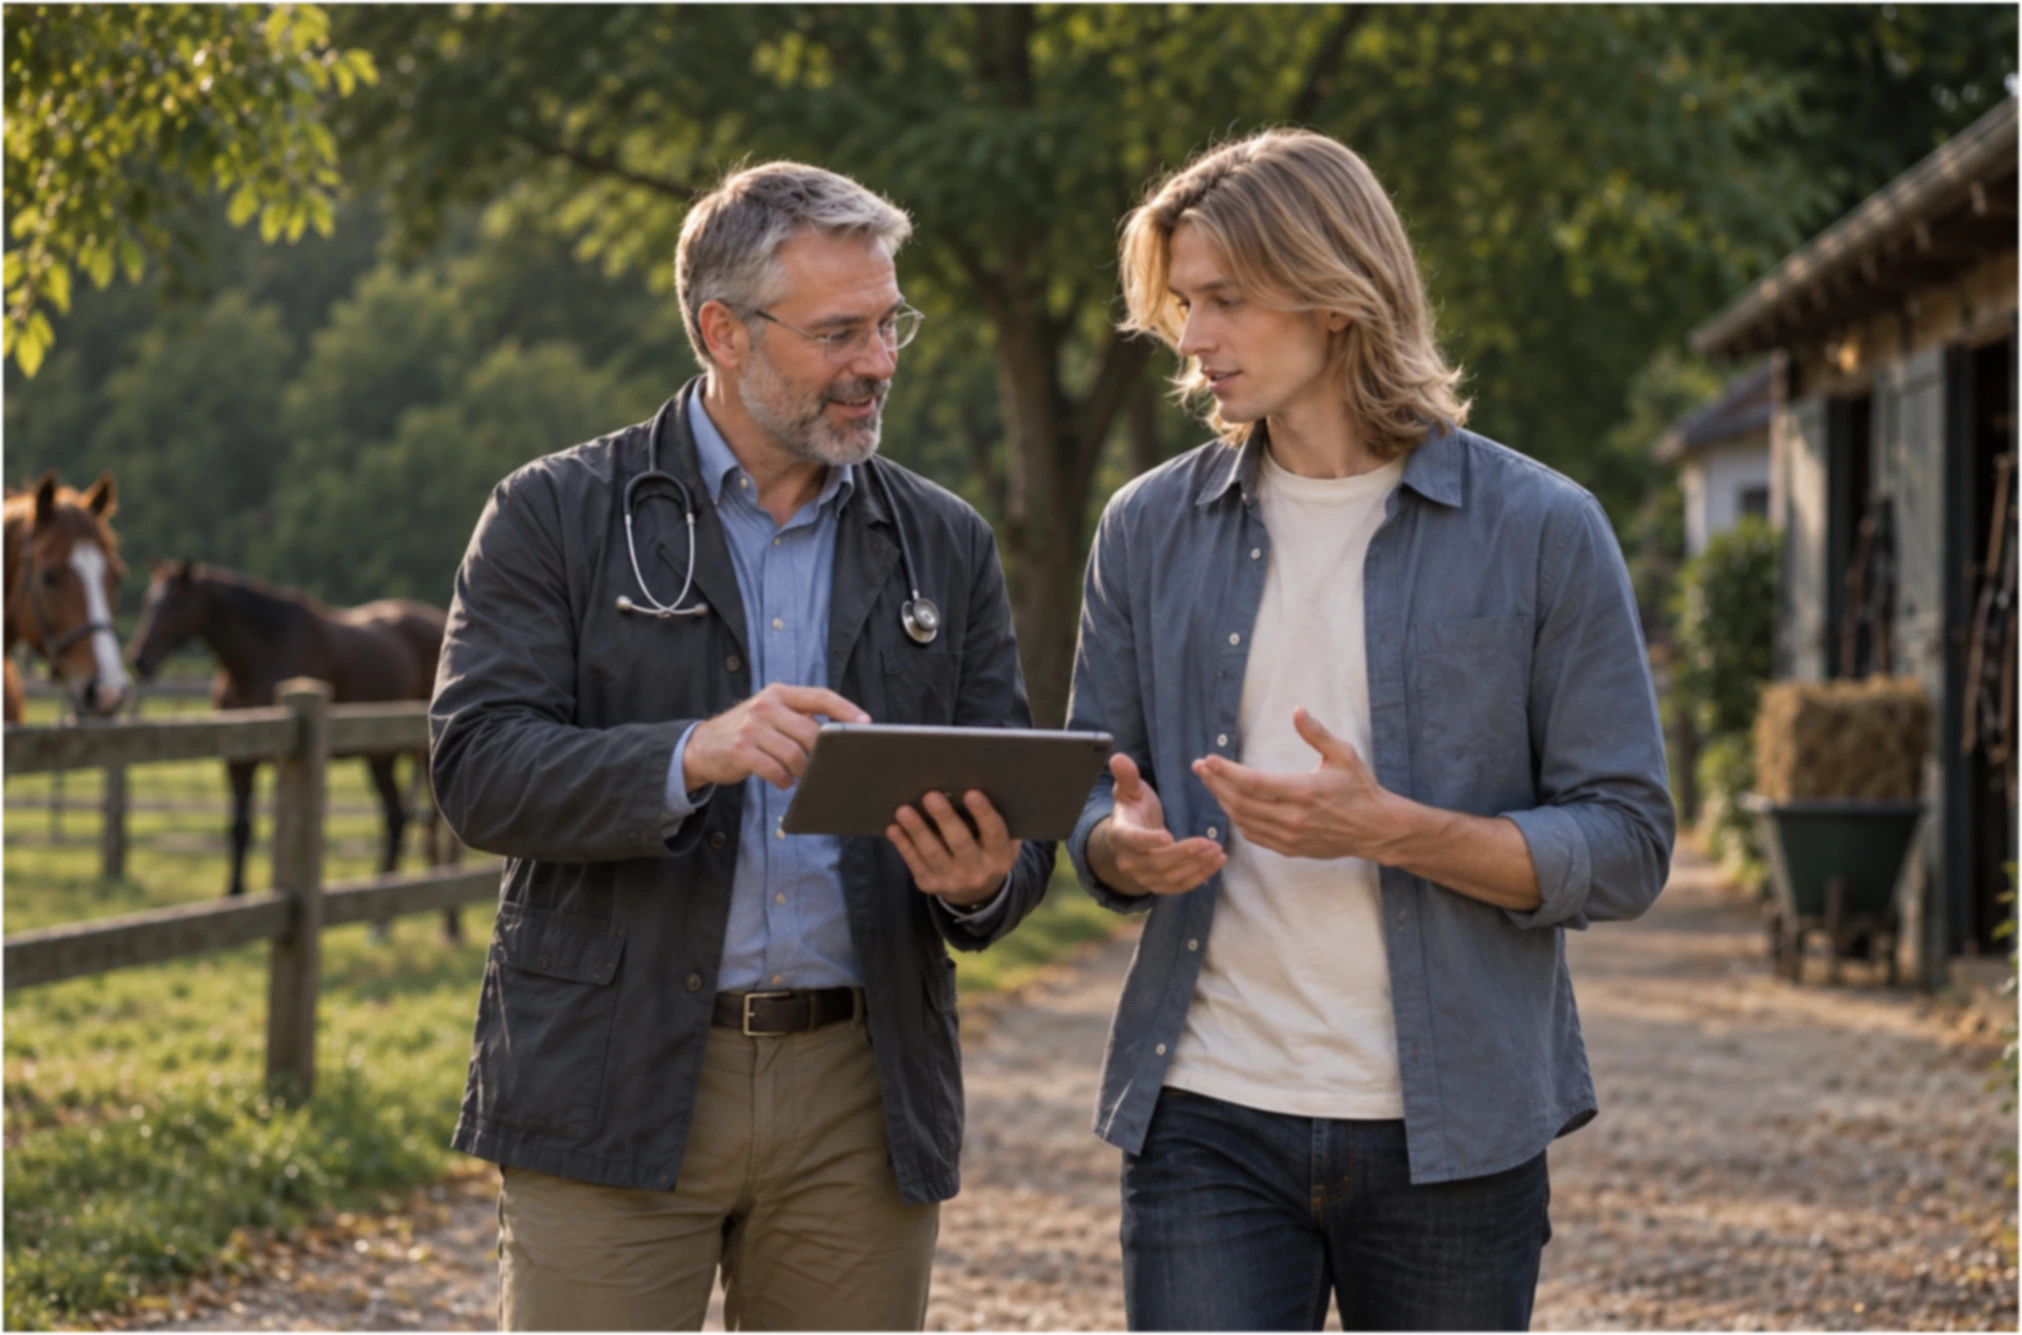
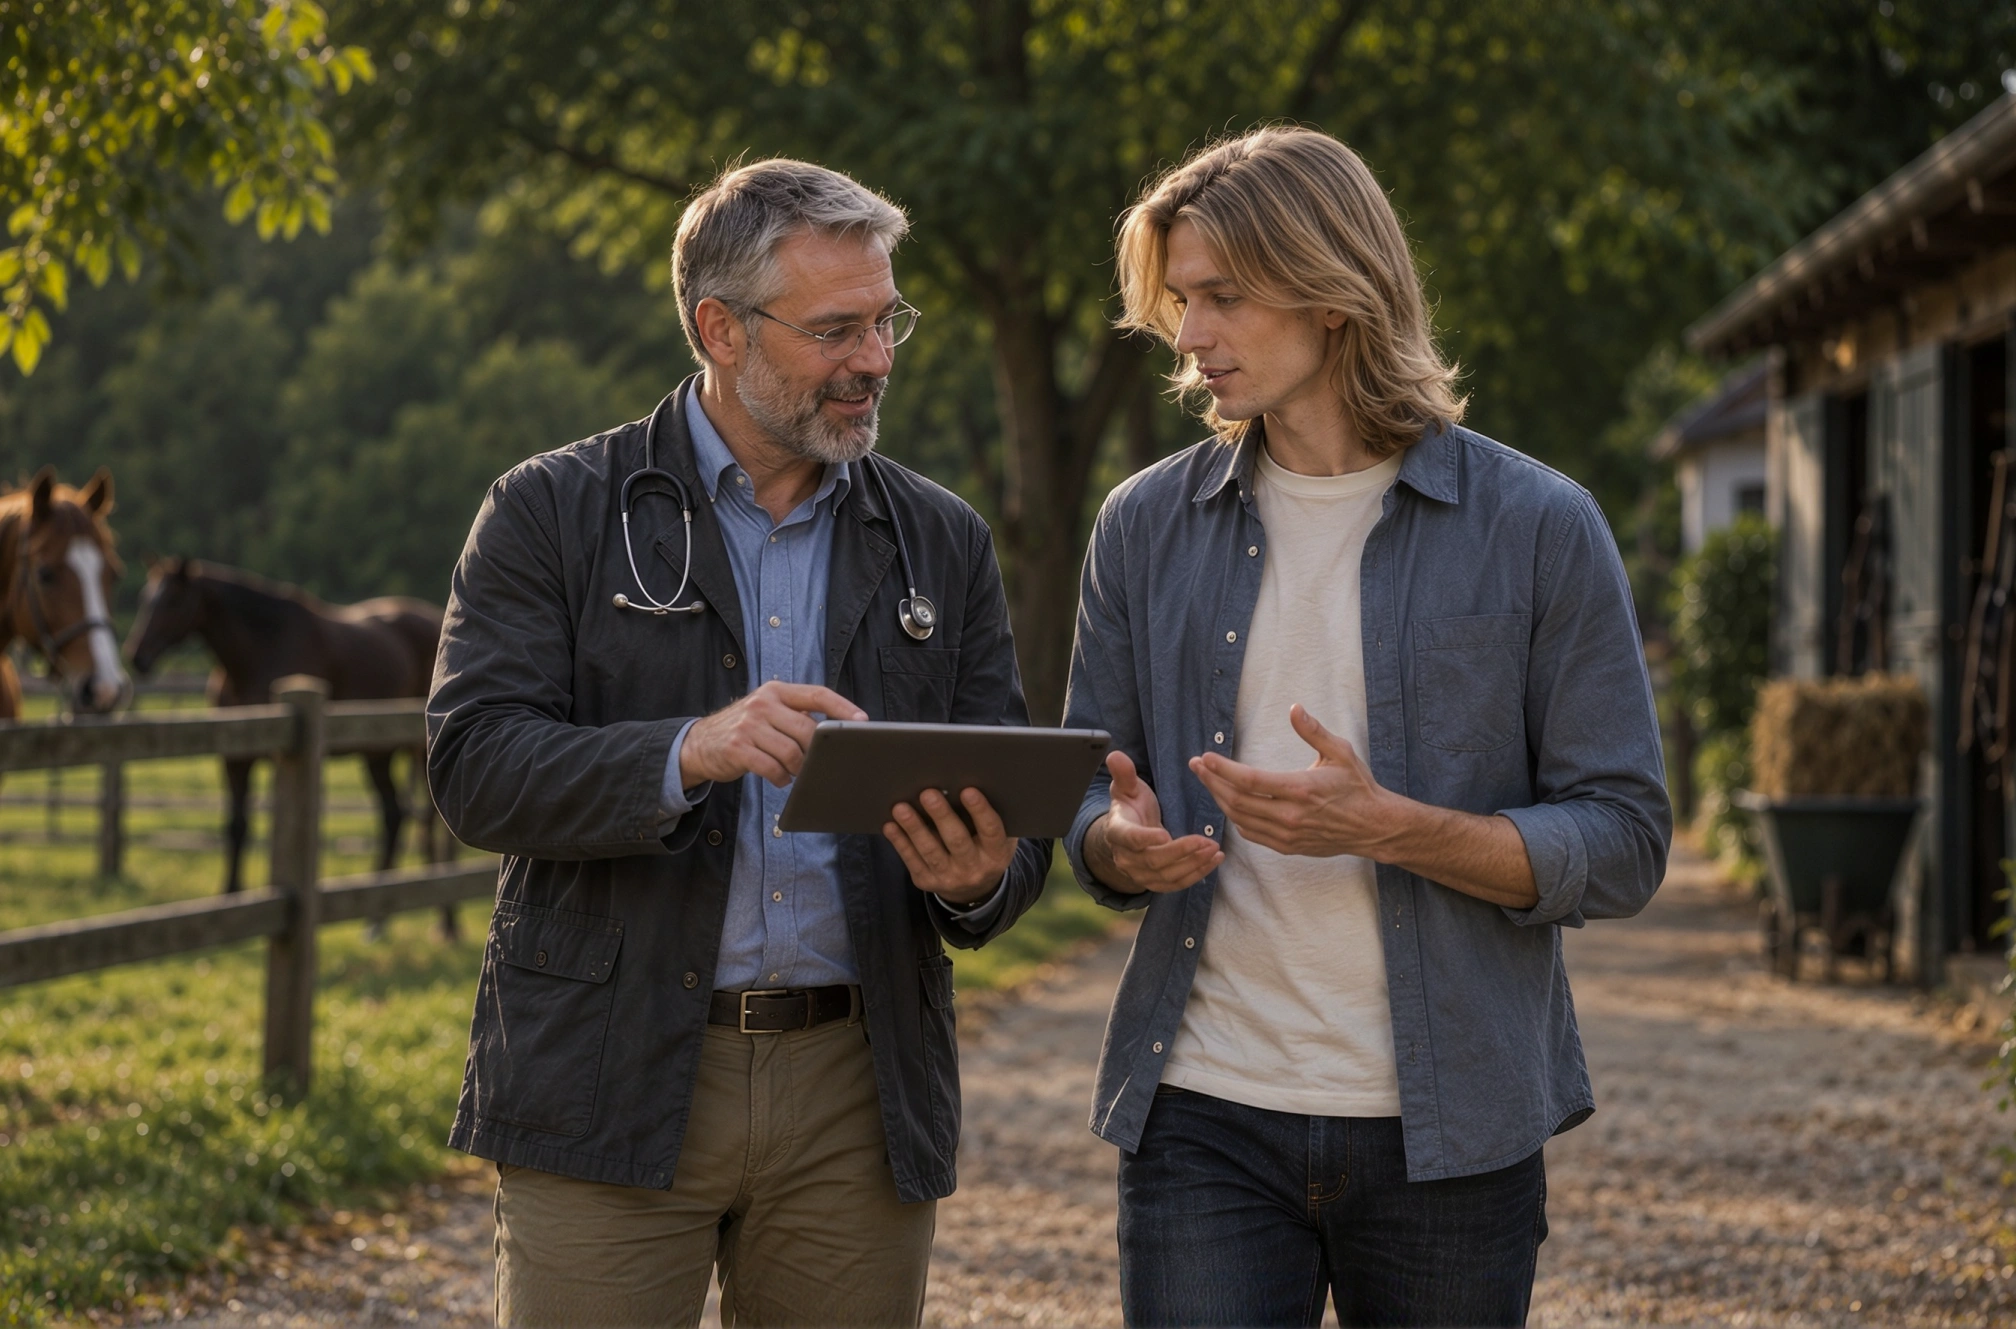
Refine section animations and content styling

diff --git a/src/sections/Contact.tsx b/src/sections/Contact.tsx
@@ -34,8 +34,8 @@ export function Contact() {
     setStatus('Your details are ready, but this form is not connected yet. Nothing has been sent. Please email wehelp@vet.vc to discuss your project.')
   }
   return <section id="contact" className={styles.contact} aria-labelledby="contact-heading"><div className={`container ${styles.grid}`}>
-    <div className={styles.copy} data-reveal-group><h2 id="contact-heading" data-reveal>Your challenge.<br />Our next step.</h2><p className={styles.intro} data-reveal>Tell us what you would like to launch, improve or simplify. You don’t need to prepare a technical brief.</p><h3 data-reveal>What happens after you get in touch?</h3><p data-reveal>You will hear directly from the studio founder. We’ll discuss your project in English or arrange translation support in advance. Then we’ll recommend the most practical first step and agree on the scope and cost before any work begins.</p></div>
-    <form ref={formRef} className={styles.form} noValidate onSubmit={submit} aria-describedby="form-note" data-reveal-group>
+    <div className={styles.copy} data-reveal-group><h2 id="contact-heading" data-reveal>Your challenge.<br />Our next step.</h2><p className={styles.intro} data-reveal>Tell us what you would like to launch, improve or simplify. You don’t need to prepare a technical brief.</p><div className={styles.followUp}><h3 data-reveal>What happens after you get in touch?</h3><p data-reveal>You will hear directly from the studio founder. We’ll discuss your project in English or arrange translation support in advance. Then we’ll recommend the most practical first step and agree on the scope and cost before any work begins.</p></div></div>
+    <form ref={formRef} className={styles.form} noValidate onSubmit={submit} data-reveal-group>
       <div className={styles.fields}>{fields.map(field => <div key={field.name} className={field.name === 'email' || field.name === 'message' ? styles.full : undefined} data-reveal>
         <label htmlFor={field.name}>{field.label}</label>
         {field.name === 'message' ? <textarea id={field.name} name={field.name} rows={5} required maxLength={5000} placeholder={field.placeholder} aria-invalid={!!errors[field.name]} aria-describedby={errors[field.name] ? `${field.name}-error` : undefined} onChange={() => setStatus('')} />
@@ -44,7 +44,6 @@ export function Contact() {
       </div>)}</div>
       <button type="submit" className="button" data-reveal>Discuss your project</button>
       <div className={styles.legal} data-reveal>By clicking, you agree to our <LegalNotice label="Terms & Conditions" /> and <LegalNotice label="Privacy Policy" />.</div>
-      <p id="form-note" className={styles.note} data-reveal>Form not connected yet. You can contact us at <a href="mailto:wehelp@vet.vc">wehelp@vet.vc</a>.</p>
       <p role="status" aria-live="polite" className={styles.status}>{status}</p>
     </form>
   </div></section>

diff --git a/src/sections/HowWeWork.tsx b/src/sections/HowWeWork.tsx
@@ -18,30 +18,35 @@ export function HowWeWork() {
 
     const steps = motion.utils.toArray<HTMLElement>('[data-process-step]', layers)
     const items = steps.map(step => motion.utils.toArray<HTMLElement>('[data-process-item]', step))
+    const descriptions = motion.utils.toArray<HTMLElement>('[data-process-description]', layers)
     if (steps.length !== 3) return
 
     const rootStyles = getComputedStyle(document.documentElement)
     const initialGreen = rootStyles.getPropertyValue('--color-surface-green').trim()
     const finalGreen = rootStyles.getPropertyValue('--color-surface-green-strong').trim()
+    const finalScale = 0.72
+    const finalDescriptionSize = 16 / finalScale
+    const singleStepOffset = () => -window.innerHeight * 0.05
     const finalOffset = () => Math.min(225, window.innerHeight * 0.27)
 
     motion.set(stage, { backgroundColor: initialGreen })
     motion.set(heading, { autoAlpha: 0, y: 12 })
-    motion.set(steps, { autoAlpha: 0, scale: 1, y: 0, transformOrigin: '50% 50%' })
+    motion.set(steps, { autoAlpha: 0, scale: 1, y: singleStepOffset, transformOrigin: '50% 50%' })
     motion.set(items.flat(), { autoAlpha: 0, y: 18 })
 
     const entranceTimeline = motion.timeline({
       scrollTrigger: {
         trigger: stage,
-        start: 'top 82%',
-        once: true,
+        start: 'top 62%',
+        end: 'top 12%',
+        scrub: 0.7,
       },
     })
 
     entranceTimeline
       .to(heading, { autoAlpha: 1, y: 0, duration: 0.55, ease: 'power3.out' }, 0)
       .set(steps[0], { autoAlpha: 1 }, 0.08)
-      .to(items[0], { autoAlpha: 1, y: 0, duration: 0.55, stagger: 0.14, ease: 'power3.out' }, 0.1)
+      .to(items[0], { autoAlpha: 1, y: 0, duration: 0.42, stagger: 0.12, ease: 'power2.out' }, 0.1)
 
     const timeline = motion.timeline({
       scrollTrigger: {
@@ -68,9 +73,10 @@ export function HowWeWork() {
       .set(steps[2], { autoAlpha: 0 }, 3.82)
       .to(stage, { backgroundColor: finalGreen, duration: 0.62, ease: 'none' }, 3.64)
       .set(items.flat(), { autoAlpha: 1, y: 0 }, 4.02)
+      .set(descriptions, { fontSize: finalDescriptionSize }, 4.02)
       .set(steps, {
         autoAlpha: 0,
-        scale: 0.72,
+        scale: finalScale,
         y: index => index === 0 ? -finalOffset() + 30 : index === 2 ? finalOffset() + 30 : 30,
       }, 4.02)
       .to(steps[0], { autoAlpha: 1, y: () => -finalOffset(), duration: 0.52, ease: 'power2.out' }, 4.08)
@@ -95,7 +101,7 @@ export function HowWeWork() {
         <div className={styles.content}>
           <p className={styles.number} style={{ color: step.accentColor }} data-process-item>{step.number}</p>
           <h3 data-process-item>{step.title}</h3>
-          <p data-process-item>{step.description}</p>
+          <p data-process-item data-process-description>{step.description}</p>
         </div>
       </article>)}</div>
     </div>

diff --git a/src/sections/Contact.module.css b/src/sections/Contact.module.css
@@ -2,20 +2,21 @@
 .grid { display: grid; grid-template-columns: 1fr 1fr; gap: clamp(48px, 10vw, 160px); align-items: center; }
 .copy h2 { margin-bottom: var(--space-6); }
 .intro { font-size: var(--text-large); margin-bottom: var(--space-8); }
-.copy h3 { margin-bottom: var(--space-4); }
+.followUp { color: var(--color-text-secondary); }
+.followUp h3 { margin-bottom: var(--space-4); }
 .form { min-width: 0; padding: var(--space-6); border-radius: var(--radius-card); background: var(--color-on-image); }
 .fields { display: grid; grid-template-columns: repeat(2, minmax(0, 1fr)); gap: var(--space-4) var(--space-3); margin-bottom: var(--space-5); }
 .full { grid-column: 1 / -1; }
-.fields label { display: block; font-size: var(--text-small); margin-bottom: var(--space-2); }
+.fields label { display: block; margin-bottom: var(--space-2); color: var(--color-text-secondary); font-size: var(--text-small); }
 .fields input, .fields textarea { width: 100%; min-height: 48px; padding: var(--space-3); border: 2px solid transparent; border-radius: var(--radius-control); background: var(--color-form-field); color: var(--color-text-primary); }
 .fields textarea { resize: vertical; min-height: 160px; }
-.fields input:focus, .fields textarea:focus { border-color: var(--color-form-focus); outline: 2px solid var(--color-accent-dark); outline-offset: 2px; }
+.fields input:focus, .fields textarea:focus { outline: 2px solid var(--color-accent-dark); outline-offset: 2px; }
 .fields [aria-invalid='true'] { border-color: var(--color-error); }
 .fields ::placeholder { color: var(--color-text-secondary); opacity: 1; }
+.fields textarea::placeholder { opacity: 0.5; }
 .error { margin-top: var(--space-2); color: var(--color-error); font-size: var(--text-small); }
 .form > button { width: 100%; }
-.legal, .note { font-size: var(--text-label); color: var(--color-text-secondary); margin-top: var(--space-3); }
-.note a { display: inline-flex; align-items: center; min-height: 44px; }
+.legal { margin-top: var(--space-3); color: var(--color-text-secondary); font-size: var(--text-label); }
 .status:not(:empty) { margin-top: var(--space-5); padding: var(--space-4); background: var(--color-surface-green); border-radius: var(--radius-control); font-size: var(--text-small); }
 @media(max-width: 900px) { .grid { grid-template-columns: 1fr; } .copy { max-width: 620px; } .form { width: 100%; max-width: 620px; } }
 @media(max-width: 400px) { .fields { grid-template-columns: 1fr; } .form { padding: var(--space-5); } }

diff --git a/src/data/content.ts b/src/data/content.ts
@@ -31,9 +31,8 @@ export const team: TeamMember[] = [
 ]
 export const faqs: FAQItem[] = [
   { id: 'project', question: 'What kind of project can we start with?', answer: 'We can begin with your website enquiry flow, the launch of a new course or a single time-consuming manual process. We work with both independent veterinary professionals and larger teams. What matters most is the challenge and the value the solution can bring.' },
-  // TODO: Obtain approved answers to the four collapsed questions in the concept.
-  { id: 'software', question: 'Will we need to replace the software we already use?', answer: 'TODO: Answer awaiting approved content.', todo: true },
-  { id: 'budget', question: 'How are the budget and timeline determined?', answer: 'TODO: Answer awaiting approved content.', todo: true },
-  { id: 'ai', question: 'Do you use AI?', answer: 'TODO: Answer awaiting approved content.', todo: true },
-  { id: 'language', question: 'What language will we communicate in?', answer: 'TODO: Answer awaiting approved content.', todo: true },
+  { id: 'software', question: 'Will we need to replace the software we already use?', answer: 'Not necessarily. We first explore what your current tools can already do. Depending on the challenge and the available integrations, we may configure them, connect them with other services or develop a custom solution.' },
+  { id: 'budget', question: 'How are the budget and timeline determined?', answer: 'After our initial conversation, we define the scope, dependencies and success criteria. You will then receive a proposal outlining the estimated cost and timeline. For more complex projects, we may recommend starting with a separate discovery phase.' },
+  { id: 'ai', question: 'Do you use AI?', answer: 'Yes, where it provides real value—for example, to transcribe videos or prepare initial drafts of course questions. All content is reviewed by people. We agree on the data, tools and terms of use before introducing any AI-based solution.' },
+  { id: 'language', question: 'What language will we communicate in?', answer: 'Our working language is English. If you would prefer another language, we can discuss a suitable translation arrangement in advance. We currently do not have a permanent German-speaking specialist on the team.' },
 ]

diff --git a/src/sections/FAQ.tsx b/src/sections/FAQ.tsx
@@ -2,12 +2,14 @@ import { useState } from 'react'
 import { faqs } from '../data/content'
 import styles from './FAQ.module.css'
 export function FAQ() {
-  const [expanded, setExpanded] = useState<string | null>(faqs[0].id)
+  const [expanded, setExpanded] = useState<string | null>(null)
   return <section id="faq" className="container section" aria-labelledby="faq-heading">
     <div className="section-heading" data-reveal-group><p className="eyebrow" data-reveal>Before we begin</p><h2 id="faq-heading" data-reveal>Getting started is easier<br /> than it seems.</h2><p className={styles.intro} data-reveal>Come to us with a clear idea — or simply with something that has been making your work more difficult.</p></div>
     <div className={styles.list} data-reveal-group>{faqs.map(item => <div key={item.id} className={styles.item} data-reveal>
-      <h3><button id={`question-${item.id}`} aria-expanded={expanded === item.id} aria-controls={`answer-${item.id}`} onClick={() => setExpanded(expanded === item.id ? null : item.id)}>{item.question}<span aria-hidden="true">{expanded === item.id ? '−' : '+'}</span></button></h3>
-      <div id={`answer-${item.id}`} role="region" aria-labelledby={`question-${item.id}`} hidden={expanded !== item.id} className={styles.answer}><p className={item.todo ? 'todo' : undefined}>{item.answer}</p></div>
+      <h3><button id={`question-${item.id}`} aria-expanded={expanded === item.id} aria-controls={`answer-${item.id}`} onClick={() => setExpanded(expanded === item.id ? null : item.id)}>{item.question}<img className={styles.chevron} src="/media/chevron.svg" alt="" aria-hidden="true" /></button></h3>
+      <div id={`answer-${item.id}`} role="region" aria-labelledby={`question-${item.id}`} aria-hidden={expanded !== item.id} className={`${styles.answer} ${expanded === item.id ? styles.answerOpen : ''}`}>
+        <div className={styles.answerInner}><p className={item.todo ? 'todo' : undefined}>{item.answer}</p></div>
+      </div>
     </div>)}</div>
   </section>
 }

diff --git a/src/sections/FAQ.module.css b/src/sections/FAQ.module.css
@@ -2,5 +2,36 @@
 .list { max-width: 680px; margin-inline: auto; display: grid; gap: var(--space-3); }
 .item { border-radius: var(--radius-card); background: var(--color-surface-green); }
 .item button { border: 0; background: transparent; width: 100%; display: flex; align-items: center; justify-content: space-between; gap: var(--space-5); padding: var(--space-5) var(--space-6); text-align: left; font-size: var(--text-body); font-weight: 500; border-radius: var(--radius-card); min-height: 72px; }
-.item button span { font-size: 24px; flex-shrink: 0; }
-.answer { padding: 0 var(--space-6) var(--space-6); }
+.chevron {
+  display: block;
+  width: 16px;
+  height: 8px;
+  flex-shrink: 0;
+  transform-origin: center;
+  transition: transform 520ms var(--ease-scene);
+}
+.item button[aria-expanded='true'] .chevron { transform: rotate(180deg); }
+.answer {
+  display: grid;
+  grid-template-rows: 0fr;
+  opacity: 0;
+  visibility: hidden;
+  transition:
+    grid-template-rows 560ms var(--ease-scene),
+    opacity 360ms ease,
+    visibility 0s linear 560ms;
+}
+.answerOpen {
+  grid-template-rows: 1fr;
+  opacity: 1;
+  visibility: visible;
+  transition-delay: 0s;
+}
+.answerInner {
+  min-height: 0;
+  overflow: hidden;
+}
+.answerInner > p {
+  padding: 0 var(--space-6) var(--space-6);
+  color: var(--color-text-secondary);
+}

diff --git a/src/components/Footer.tsx b/src/components/Footer.tsx
@@ -1,7 +1,7 @@
 import { LegalNotice } from './LegalNotice'
 import styles from './Footer.module.css'
 export function Footer() {
-  return <footer className={`container ${styles.footer}`} data-reveal-group>
+  return <footer className={`container ${styles.footer}`} data-reveal-group data-reveal-page-end>
     <div data-reveal><a className={styles.brand} href="#home"><img src="/media/logo-symbol.svg" alt="" width="62" height="48" loading="lazy" /><span>WeHelp.vet</span></a><p>© 2026 WeHelp.vet. All rights reserved</p></div>
     <div className={styles.links} data-reveal><a className={styles.email} href="mailto:wehelp@vet.vc">wehelp@vet.vc</a><div className={styles.legal}><LegalNotice label="Privacy Policy" /><span aria-hidden="true"> | </span><LegalNotice label="Terms & Conditions" /></div></div>
   </footer>

diff --git a/src/sections/Mission.module.css b/src/sections/Mission.module.css
@@ -2,8 +2,8 @@
 .photo, .shade { position: absolute; inset: 0; width: 100%; height: 100%; z-index: -1; }
 .photo { object-fit: cover; }
 .shade { background: var(--color-overlay); }
-.content { max-width: 560px; text-align: center; }
+.content { max-width: 560px; text-align: center; transform: translateY(-5svh); }
 .content img { margin: 0 auto var(--space-9); }
 .content h2 { margin-bottom: var(--space-6); }
-.content p { font-size: var(--text-large); }
+.content p { color: color-mix(in srgb, var(--color-on-image) 70%, transparent); font-size: var(--text-large); }
 @media(max-width: 600px) { .mission { min-height: 660px; } .content img { margin-bottom: var(--space-8); } .photo { object-position: 58% center; } }

diff --git a/src/sections/Hero.module.css b/src/sections/Hero.module.css
@@ -3,5 +3,5 @@
 .content h1 { grid-row: 2; transform: translateY(calc(-5svh + var(--hero-reveal-y, 0px))); }
 .support { grid-row: 3; align-self: end; max-width: 480px; padding-bottom: var(--space-8); }
 .support [data-hero-reveal] { transform: translateY(var(--hero-reveal-y, 0px)); }
-.support p { font-size: var(--text-large); margin-bottom: var(--space-6); }
+.support p { margin-bottom: var(--space-6); color: color-mix(in srgb, var(--color-on-image) 70%, transparent); font-size: var(--text-large); }
 @media(max-width: 600px) { .break { display: none; } .support { padding-bottom: var(--space-7); } }

diff --git a/src/styles/typography.css b/src/styles/typography.css
@@ -8,7 +8,7 @@
   --text-h3: 36px;
   --text-large: 20px; --text-body: 16px; --text-small: 14px; --text-label: 12px;
 }
-body { font-family: var(--font-body); font-size: var(--text-body); line-height: 1.5; font-weight: var(--font-weight-body); }
+body { font-family: var(--font-body); font-size: var(--text-body); line-height: 1.6; font-weight: var(--font-weight-body); }
 h1, h2, h3 { font-weight: 400; }
 h1, h2 { font-family: var(--font-heading); text-wrap: balance; }
 h1 { font-size: var(--text-display); line-height: var(--leading-display); }

diff --git a/src/hooks/useRevealAnimations.ts b/src/hooks/useRevealAnimations.ts
@@ -46,7 +46,7 @@ export function useRevealAnimations() {
               clearProps: 'transform,opacity,visibility',
               scrollTrigger: {
                 trigger: group,
-                start: 'top 86%',
+                start: group.hasAttribute('data-reveal-page-end') ? 'top 98%' : 'top 86%',
                 once: true,
               },
             },

diff --git a/src/sections/HowWeWork.module.css b/src/sections/HowWeWork.module.css
@@ -1,5 +1,6 @@
 .outer {
   min-width: 0;
+  margin-block-start: 0;
   overflow: clip;
 }
 
@@ -75,7 +76,7 @@
     inset: 0;
     display: grid;
     place-items: center;
-    padding: clamp(132px, 18vh, 176px) var(--page-gutter) var(--space-7);
+    padding: clamp(132px, 18vh, 132px) var(--page-gutter) var(--space-7);
   }
 
   .layer {
